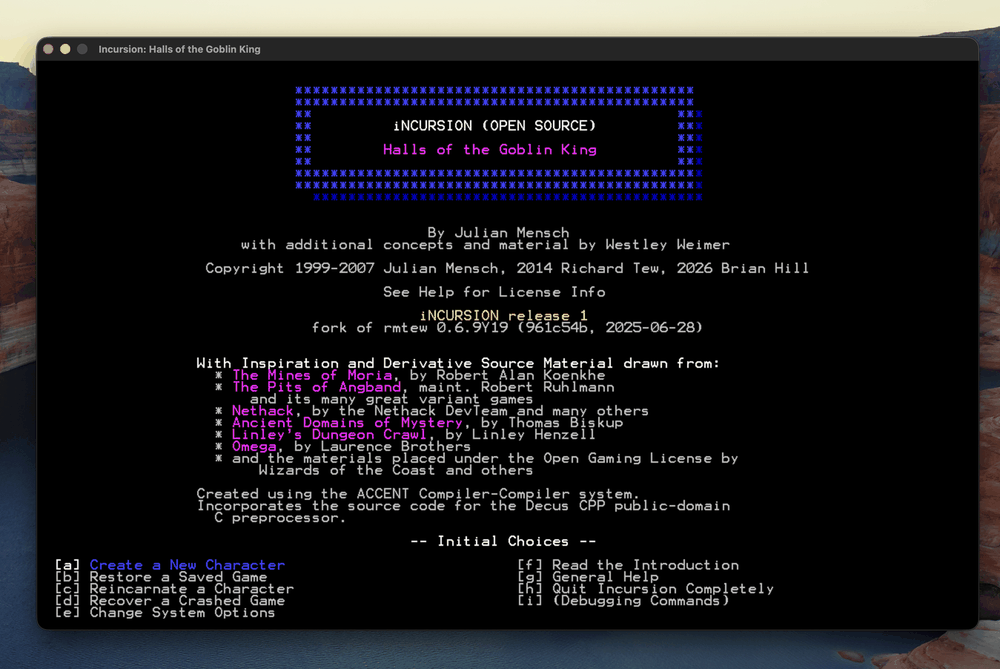
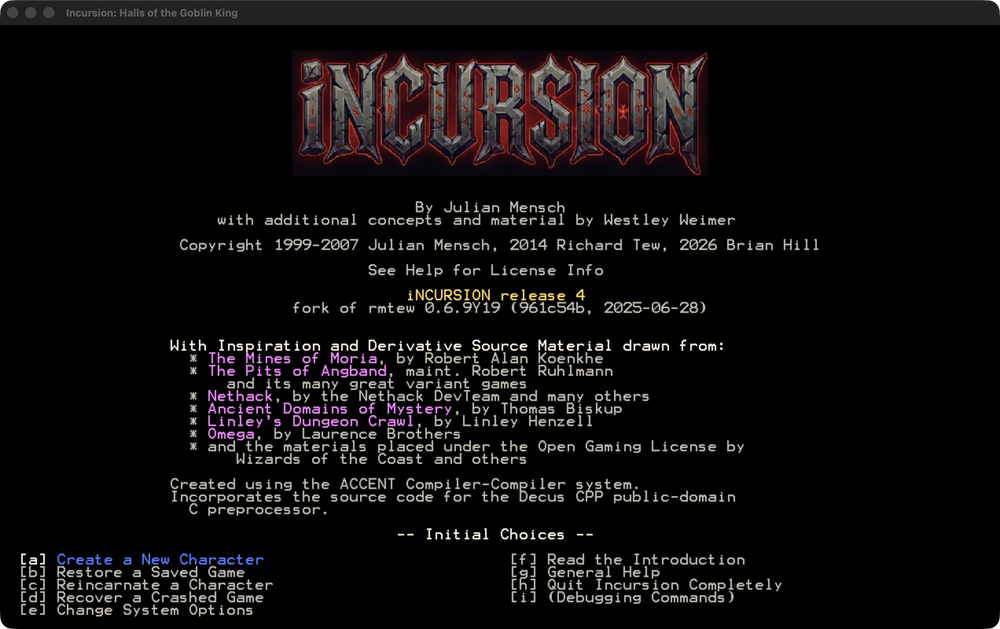
docs: rewrite the README for the release 4 launch
Release 4 is the first release where every download is the same program, so the
README's central claim -- two downloads sitting at different points, with Linux
ahead of macOS -- is gone. Four artefacts, one commit.

WHAT CHANGED

  Masthead      Windows in the one-liner and a badge for it. The Mac + Steam
                Deck composite and the 90-second trailer GIF are the hero
                assets. The macOS title-screen still moves down into the macOS
                download section, where it says something the composite does
                not.

  Get it        A four-row table replaces the "two downloads" paragraph, then a
                new Windows subsection. The rolling-beta-tag sentence is gone:
                the Linux and Deck tarballs now sit on the release-4 release,
                not on a tag that overwrites itself. The ROG-Ally-on-Windows
                sentence now has somewhere to send that reader.

  What is new   "Since release 3 -- playable in the beta" becomes "New in
                release 4 -- in every download". The two items that sat under
                "Not in either download yet" (overlapping archon circles,
                inc-fiiq; the swallowed creature, inc-rr0t) move into it: both
                are in the r4 engine. Three items are new -- the Windows build,
                the muted palette (50c0dd4), and the C/Y menus that now build
                themselves from what the character can do (7a807ab).
[…]

diff --git a/README.md b/README.md
@@ -1,8 +1,11 @@
 ![iNCURSION](docs/media/incursion-logo-web.png)
 
-Julian Mensch's D&D 3.5 roguelike, running natively on the Mac and on Linux.
+Julian Mensch's D&D 3.5 roguelike, running natively on macOS, Windows, Linux and
+the Steam Deck.
 
 ![macOS Apple Silicon](https://img.shields.io/badge/macOS-Apple_Silicon-000?logo=apple)
+![Windows x86-64](https://img.shields.io/badge/Windows-x86--64-0078D4?logo=windows)
+![Linux and Steam Deck](https://img.shields.io/badge/Linux-Steam_Deck-1A9FFF?logo=steamdeck)
 ![signed & notarised](https://img.shields.io/badge/signed_%26_notarised-Apple-success)
 ![latest release](https://img.shields.io/github/v/release/networkingguru/incursion-roguelike?label=release)
 ![license](https://img.shields.io/badge/license-Incursion%20%2F%20MIT%20%2F%20OGL-blue)
@@ -15,10 +18,17 @@ straight 3.5: Mensch threw out the SRD's eight schools and wrote his own eleven,
 Arcana and Thaumaturgy and Weavecraft among them. He built something enormous and
 then very nearly finished it.
 
-It has only ever run on Windows. This fork brings it to macOS, and to Linux and
-the Steam Deck, and it is meant to be played, not built.
+It has only ever run on Windows. This fork brings it to macOS, to Linux and to
+the Steam Deck — and, in release 4, back to Windows. Four downloads, one commit,
+and it is meant to be played, not built.
 
-![iNCURSION running on macOS](docs/media/incursion-macos-web.png)
+![iNCURSION on a MacBook Pro and a Steam Deck](docs/media/incursion-mac-deck-web.png)
+
+![The release 4 trailer](docs/media/incursion-r4-trailer.gif)
+
+*Ninety seconds in the Lit Deep. Every light in it is the game's own: torch
+archons and lanterns carry their colour with them, and the ice matrix takes what
+passes through its walls.*
 
 **Jump to:** [Get it](#get-it) · [What is new](#what-is-new) ·
 [What is fixed](#what-is-fixed) · [What is next](#what-is-next) ·
@@ -28,11 +38,17 @@ the Steam Deck, and it is meant to be played, not built.
 
 ## Get it
 
-There are two downloads, both on the
-[Releases](https://github.com/networkingguru/incursion-roguelike/releases) page.
-The macOS one is finished, signed and notarised. The Linux and Steam Deck one is
-a test build, and it is ahead of macOS: it already carries work that no macOS
-release has yet. [What is new](#what-is-new) says which build has what.
+Release 4 is on the
+[Releases](https://github.com/networkingguru/incursion-roguelike/releases) page,
+and every download on it is built from the same commit. No platform is ahead of
+another any more.
+
+| Download | For | State |
+|---|---|---|
+| `Incursion-macOS-arm64.dmg` | macOS on Apple Silicon | Signed and notarised by Apple |
+| `incursion-windows-x86_64.zip` | Windows 10 or later, x86-64 | New in release 4 |
+| `incursion-steamdeck-x86_64.tar.gz` | SteamOS: the Steam Deck, or a handheld running it | Beta |
+| `incursion-linux-x86_64.tar.gz` | Any other x86-64 Linux | Beta |
 
 ### macOS
 
@@ -51,6 +67,8 @@ not normal, and mean something is genuinely wrong — *"the developer cannot be
 verified"* and *"the app has been modified or damaged"*. If you see either,
 please open an issue.
 
+![iNCURSION running on macOS](docs/media/incursion-macos-web.png)
+
 **Requires** macOS on Apple Silicon. An Intel and universal build is planned; see
 *What is next*.
 
@@ -60,20 +78,44 @@ They are kept outside the app because an app bundle that writes inside itself
 breaks its own code signature, which macOS then reports as the app having been
 modified or damaged.
 
+### Windows
+
+Download `incursion-windows-x86_64.zip`, unpack it wherever you like, and run
+`Incursion.exe` from inside the folder it makes. There is no installer and
+nothing to register.
+
+**Keep the folder together.** `SDL2.dll`, `fonts/`, `graphics/` and
+`mod/Incursion.Mod` sit beside the executable, and the game finds its own ruleset
+by the path it was started with. An `.exe` carried off on its own cannot start.
+
+The executable is not signed, so Windows SmartScreen calls its publisher
+unrecognised the first time you run it: choose *More info*, then *Run anyway*. A
+signing certificate is on the list; see *What is next*.
+
+**Requires** Windows 10 or later on x86-64, and nothing else. The one runtime the
+game needs travels with it as `SDL2.dll`.
+
+Your saves, options and logs stay inside that folder, beside the binary. Move the
+folder and your characters move with it.
+
+This is the first Windows build this fork has produced. It is the same engine the
+other three downloads carry, and it has been played from the title screen into
+the dungeon — but in one place only, a Windows 11 ARM64 virtual machine, where an
+x86-64 binary runs under emulation. No native x86-64 Windows machine has run it
+yet. Please open an issue for whatever you find.
+
 ### Linux and Steam Deck
 
-**This one is a beta, and it says so.** It has had real playtesting on handheld
-hardware, but expect bugs, and expect that a save may not survive the next build.
-Play it to enjoy it and to shake problems out, not for a character you would
-mourn. The tag is rolling: each new test build overwrites it, so the download
-link always points at the newest one.
+**These two are a beta, and they say so.** They have had real playtesting on
+handheld hardware, but expect bugs, and expect that a save may not survive the
+next build. Play them to enjoy them and to shake problems out, not for a
+character you would mourn.
 
-Both of these are Linux builds, and **neither runs on Windows**. A ROG Ally with
-the stock Windows install it ships with cannot use either one. An Ally running
-SteamOS can, and that is what the first tarball was tested on.
+Both are Linux builds, and neither runs on Windows. A ROG Ally with the stock
+Windows install it ships with wants the Windows download above. An Ally running
+SteamOS wants the Deck tarball, and that is the machine it was tested on.
 
-There are two tarballs, and which one you want depends on whether SDL2 is already
-on the machine.
+Which of the two you want depends on whether SDL2 is already on the machine.
 
 - `incursion-steamdeck-x86_64.tar.gz` — for **SteamOS**: the Steam Deck, or
   another handheld running SteamOS in place of the system it shipped with. It
@@ -113,7 +155,7 @@ binary. Move that folder and your characters move with it.
 
 ### Three ways to run it
 
-Both downloads are the windowed SDL build, which is the way to play. Building
+Every download is the windowed SDL build, which is the way to play. Building
 from source also gives you a plain terminal build that needs no graphics at all
 and works over ssh, and a headless mode that plays from a script, which is how
 this fork finds its own bugs.
@@ -143,30 +185,11 @@ subset of it.
 
 ## What is new
 
-The newest work is first, and each heading says which download carries the work
-under it. The two downloads sit at different points. The macOS download is
-**release 3**. The Linux and Steam Deck download is a rolling beta, and it
-carries everything from **Since release 3** downward.
+The newest work is first. **Release 4 is the first release where every
+download is the same program.** macOS, Windows, Linux and the Steam Deck are all
+built from one commit, and no platform is held back while another catches up.
 
-### Not in either download yet
-
-**Two archons stop putting each other's lights out.** An archon standing inside a
-neighbouring archon's magic circle lost its own light and its own aura for good,
-the moment the two drifted apart. Every archon's circle carries the same effect
-id, so the archon standing inside held two rows under that one id, and leaving
-the neighbour's circle deleted both — the second deletion then reaped the
-creature's own light. The same duplication also paid an overlapping circle's
-bonus, and its penalty, once per circle. It takes two archons in one place to
-show, which is why every single-archon check passed.
-
-**A swallowed creature feels what its swallower walks through.** A creature that
-has been swallowed or engulfed rides at its carrier's square and cannot move
-itself, and the code that announces crossing a field boundary told only the mover
-and the mover's mount. The passenger therefore never gained a status from a field
-its carrier walked into, and never lost one either. It now gets the same events
-its carrier gets.
-
-### Since release 3 — playable in the Linux and Steam Deck beta
+### New in release 4 — in every download
 
 **The map is lit in colour.** Incursion draws its map in the sixteen colours the
 character set gives it, and a lit square used to be no more than a brighter
@@ -211,6 +234,33 @@ and headless builds fall back to the same wordmark redrawn as hard CP437 glyphs 
 sixteen colours, and both keep the *Halls of the Goblin King* subtitle and the
 credits below it.
 
+**It runs on Windows.** Incursion began as a Windows game, and this fork could
+not build it there: `src/ErrorLog.cpp`, added by this port, carried four
+unguarded POSIX includes, and nothing had compiled on Windows since the day that
+file landed. There is now an `Incursion.exe`, cross-built from the Mac with
+mingw-w64, and it has been played through character creation and down into the
+dungeon in a Windows 11 virtual machine. Most of what stood in the way was found
+by the compiler rather than by any reading of the code, exactly as the Linux port
+went: a shim header in `compat/` that shadowed mingw's own `<malloc.h>` and took
+`alloca` away with it, at the same call site where the same mistake had already
+been made on Linux; a vendored library that needs `-std=gnu17`, because GCC 16
+made `bool` a keyword and that library still typedefs it. None of it was visible
+from macOS.
+
+**The one the compiler could not find.** This is the first binary this project
+has ever built with GCC, and it died moments after character creation on an
+invalid object handle. Three binaries were measured in the VM from one source,
+differing only in flags: `-O2` crashes, `-O0` is clean, and `-O2
+-flifetime-dse=1` is clean. `Object::operator new` zeroes every allocation, and
+constructors across the object hierarchy lean on that fill instead of setting
+their own members — the same pattern as the `Item` constructor below. C++ says an
+object's lifetime has not begun until its constructor runs, so a compiler is
+entitled to delete that memset as a dead store, and GCC at its default setting
+does. The flag stops it. **It masks the defect rather than removing it:** clang
+holds the same licence and merely does not take it, so the macOS and Linux builds
+are latent rather than safe. The constructor audit that would actually fix this
+is filed and open.
+
 **It runs on Linux and on the Steam Deck, and you can download it.** Six places in
 the port assumed Apple's compiler or Apple's C library: a hardcoded `clang`, a
 shim header that shadowed glibc's own, three missing standard includes, a
@@ -223,6 +273,42 @@ backends now compile there under either clang or GCC, and a seeded session plays
 through with no errors. There are two tarballs on the Releases page, one for the
 Deck and one for any x86-64 Linux; see [Get it](#get-it). The nightly gate
 cross-builds for Linux, so a Linux break stops a merge.
+
+**A quieter palette, and you choose it.** The sixteen colours the game draws in
+are vivid, and a vivid surface fights the new light rather than takes it. There
+is now a third palette beside the classic and softer ones, picked on the Options
+screen and applied without a restart. Its saturation is a third lower while every
+colour keeps the brightness of its classic counterpart, so a close torch supplies
+62% of a lit cell's hue where the classic table gives it 46%. Darkening it as
+well was tried and reverted: rendered through the real shading function, all
+sixteen colours collapsed toward the same tan under a close torch, lighting a
+green slime and a red imp alike.
+
+**The Combat and Use menus show only what you can actually do.** The Use menu
+(`U`) has always filtered itself against the character. The Combat Options menu
+(`C`) gated 3 of its 21 rows and the YUse menu (`Y`) gated none of its 63, so
+every character was offered every verb whether or not the game could perform it —
+Called Shot's own help text read *"Not implemented yet"* and it was still on the
+menu. Both menus now hide a row when the verb has no implementation, or when the
+character does not meet its prerequisite. Hidden means absent, not greyed.
+Nothing is deleted: the 27 unbuilt verbs are Julian Mensch's recorded intent, and
+each returns to the menu the day somebody builds it.
+
+**Two archons stop putting each other's lights out.** An archon standing inside a
+neighbouring archon's magic circle lost its own light and its own aura for good,
+the moment the two drifted apart. Every archon's circle carries the same effect
+id, so the archon standing inside held two rows under that one id, and leaving
+the neighbour's circle deleted both — the second deletion then reaped the
+creature's own light. The same duplication also paid an overlapping circle's
+bonus, and its penalty, once per circle. It takes two archons in one place to
+show, which is why every single-archon check passed.
+
+**A swallowed creature feels what its swallower walks through.** A creature that
+has been swallowed or engulfed rides at its carrier's square and cannot move
+itself, and the code that announces crossing a field boundary told only the mover
+and the mover's mount. The passenger therefore never gained a status from a field
+its carrier walked into, and never lost one either. It now gets the same events
+its carrier gets.
 
 **Every Item member is set before it is read.** The item constructor worked out a
 new item's hit points from two of its fields — its enchantment id and its plus —
@@ -253,9 +339,9 @@ Monkey Grip now one-hands a bastard sword without its exotic proficiency, which
 frees the off hand for a shield, swung at the two-handed Strength bonus and -2 to
 hit.
 
-**And a run of smaller fixes.** Holy weapons and holy damage smite non-evil undead.
-Walls stopped leaking light after a door in them was removed. Illusory damage no
-longer leaves you permanently above your maximum hit points once it wears off.
+**And a run of smaller fixes.** Walls stopped leaking light after a door in them
+was removed. Illusory damage no longer leaves you permanently above your maximum
+hit points once it wears off.
 Permanent glows and magic auras stopped winking out on their own: an archon's
 continual light and its magic circle destroyed themselves the moment they were
 cast, and every permanent field on a level used to die the first time the in-game
@@ -263,7 +349,7 @@ day rolled over. A target prompt accepts a square with a staircase on it. ESC
 leaves character generation instead of doing nothing. Tanglefoot catches the
 mount, and dismounting no longer drags a stuck mount along.
 
-### New in release 3 — in both downloads
+### New in release 3 — in every download
 
 **Your save survives new content.** Every reference to game content inside a save
 used to be a bare number, and that number was a position in a list. The lists sit
@@ -427,8 +513,11 @@ step with what the game believes.
 
 ## What is next
 
-- **Take Linux and the Steam Deck out of beta**, and cut a macOS release that
-  carries everything the beta already has.
+- **Give the Windows and Steam Deck downloads the confidence macOS has.** All
+  four come from one commit, but only macOS has had a signed release behind it
+  since release 1.
+- **Sign the Windows executable**, so SmartScreen stops calling its publisher
+  unrecognised.
 - **Intel and universal Macs**, so this runs on hardware older than Apple Silicon.
 - **Finish the content Mensch already wrote.** This is the exciting one. The game
   describes a great deal it never quite got round to building: eight races have
@@ -447,11 +536,13 @@ step with what the game believes.
 
 You do not need this to play. It is here for people who want to change something.
 
-`master` is the development tip. The `release-3` tag marks the commit the
-current download was built from. The `release-1` tag marks this fork's first
-release, but the release-1 image was rebuilt after that tag, to carry the
-module-load and Gatekeeper fixes described in [`docs/FIXED.md`](docs/FIXED.md);
-that tag is not a byte-for-byte match for it.
+`master` is the development tip. The `release-4` tag marks the commit every
+current download was built from. `release-4-windows` is that same engine plus the
+portability fixes the Windows executable needed, none of which change behaviour
+on any platform. The `release-1` tag marks this fork's first release, but the
+release-1 image was rebuilt after that tag, to carry the module-load and
+Gatekeeper fixes described in [`docs/FIXED.md`](docs/FIXED.md); that tag is not a
+byte-for-byte match for it.
 
 ```
 brew install sdl2 pkg-config
@@ -467,6 +558,27 @@ Both binaries accept `-dump`, so from a source tree the character report is
 `./incursion -dump save/YourCharacter.sav`, and `tools/dump_save.sh` wraps the
 same thing in a disposable sandbox. `tools/check_dump_save.sh` asserts that the
 two builds produce byte-identical reports for the same save.
+
+### Cross-building for Windows
+
+```
+brew install mingw-w64
+TARGET=windows ./build_macos.sh
+```
+
+That produces `Incursion.exe`. `TARGET` picks the compiler and the libraries;
+`BACKEND` picks which source file defines `main()`. They are separate axes, and
+Windows uses the same libtcod backend the Mac does. Two things must be in place
+first: SDL2 and zlib staged for mingw under `build/win-deps`, and one native
+build, because a cross-compiled binary cannot compile the data module on this
+machine.
+
+There is no tracked Windows packaging script; the bundle is assembled by hand,
+and `SDL2.dll`, `fonts/`, `graphics/` and `mod/Incursion.Mod` must all travel
+with the executable. Without `graphics/logo.png` the title screen silently falls
+back to the ASCII wordmark. The recipe, the packaging manifest and the defects
+the port had to clear are in
+[`docs/specs/2026-09-07-windows-build-brief.md`](docs/specs/2026-09-07-windows-build-brief.md).
 
 ### Packaging a release
 
@@ -861,13 +973,19 @@ Work is tracked in the repository with
 
 ## Windows
 
-This fork targets macOS and Linux; it has never built or run on Windows. The
-original MSVC build is still here — `build_sdl2.bat`, `build_libtcod.bat` and
-`build_pdcurses.bat` rebuild the checked-in dependencies, and `build.bat`
-produces `IncursionLibtcod.exe` and `IncursionCurses.exe` — but it currently
-does **not** compile: `src/ErrorLog.cpp`, added by this fork, has unguarded
-POSIX includes (`inc-xo4o`). No Windows build has ever been run against this
-fork, so nothing here is a claim that it works.
+Release 4 ships a Windows executable. It is cross-built from macOS with
+mingw-w64 — `TARGET=windows ./build_macos.sh` — and it is the same engine the
+other three downloads carry. [Get it](#get-it) says how to download and run it.
+
+The original MSVC build is still in the tree, and it is not the path this fork
+took. `build_sdl2.bat`, `build_libtcod.bat` and `build_pdcurses.bat` rebuild the
+checked-in dependencies, and `build.bat` produces `IncursionLibtcod.exe` and
+`IncursionCurses.exe`. Three things rule it out, any one of them sufficient: it
+reads a `build/dependencies/` directory that is not in this repository, it never
+compiles the data module, and it has no shipping mode, so everything it can
+produce links `src/Art.cpp` and the GPLv2 ACCENT runtime with it. The cross-build
+answers all three. `src/Wcurses.cpp`, the second Windows frontend, is still built
+by nothing.
 
 **Why the dependencies are checked in, in Richard Tew's words:** bug fixes to
 gameplay require a save game, and a save game only loads in the build that wrote
